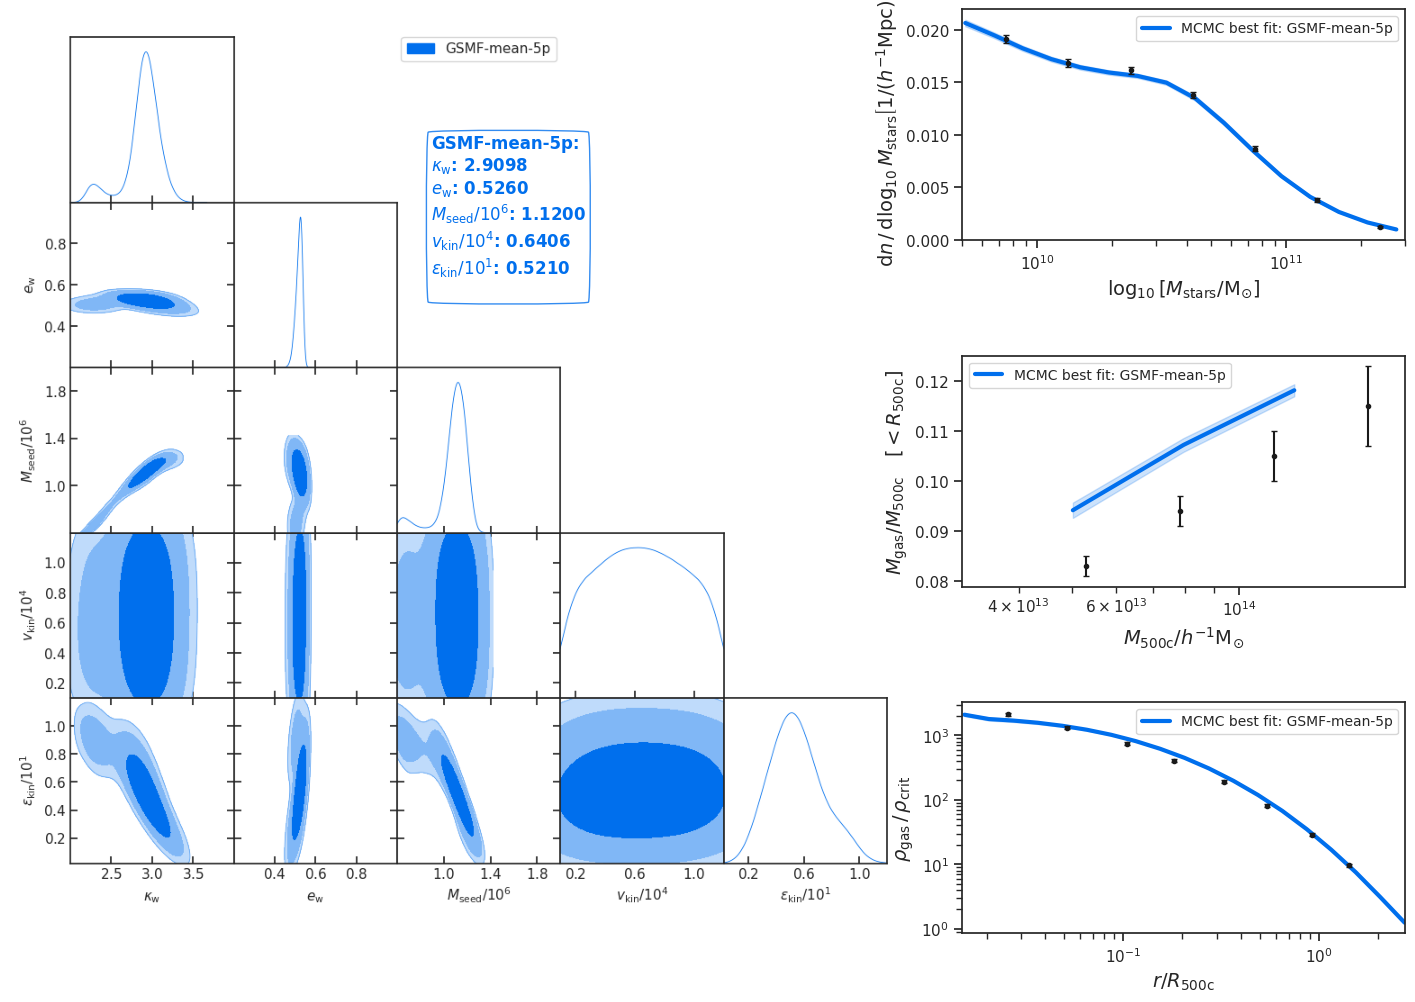
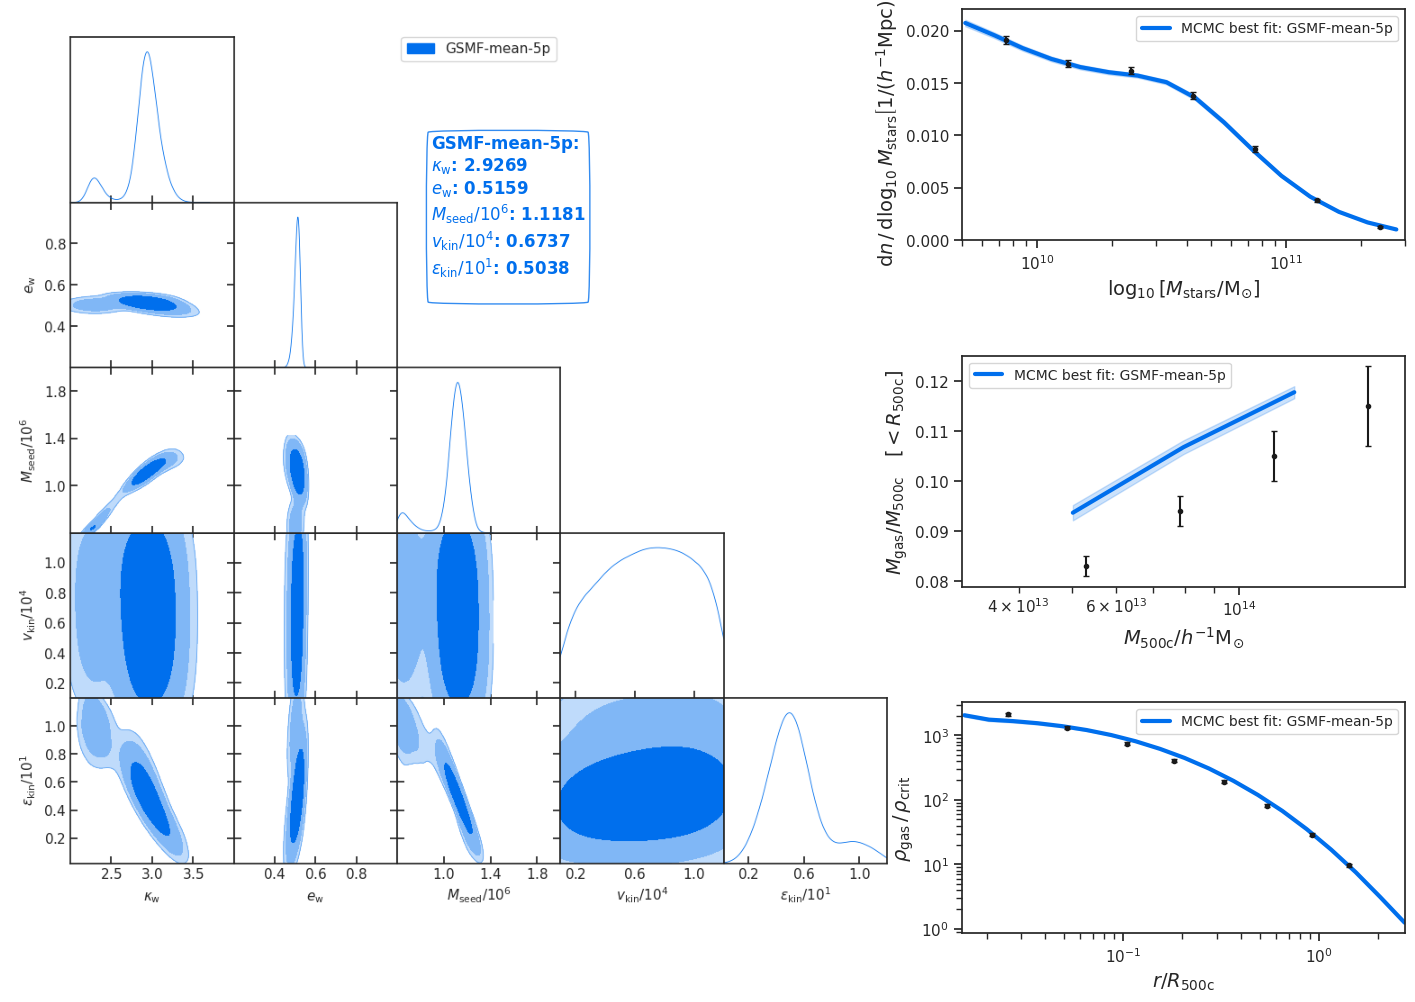
7p-2p compare

diff --git a/Inference/plot_7p_vs_2cosmo.py b/Inference/plot_7p_vs_2cosmo.py
@@ -18,11 +18,11 @@ from cosmo_hydro_emu.load_hacc import PARAM_NAME
 
 RESULTS = os.path.join(os.path.dirname(__file__), 'results')
 
-SAMPLES_7P = os.path.join(RESULTS, 'samples_GSMF_CGD_fGas_7p_fidprior.npy')
-PARAMS_7P  = os.path.join(RESULTS, 'params_list_GSMF_CGD_fGas_7p_fidprior.npy')
+SAMPLES_7P = os.path.join(RESULTS, 'samples_GSMF_7p.npy')
+PARAMS_7P  = os.path.join(RESULTS, 'params_list_GSMF_7p.npy')
 
-SAMPLES_2C = os.path.join(RESULTS, 'samples_GSMF_CGD_fGas_2cosmo.npy')
-PARAMS_2C  = os.path.join(RESULTS, 'params_list_GSMF_CGD_fGas_2cosmo.npy')
+SAMPLES_2C = os.path.join(RESULTS, 'samples_GSMF_CGD_fGas_2cosmo_match7p.npy')
+PARAMS_2C  = os.path.join(RESULTS, 'params_list_GSMF_CGD_fGas_2cosmo_match7p.npy')
 
 OUTPUT = os.path.join(RESULTS, 'plot_7p_vs_2cosmo.png')
 
